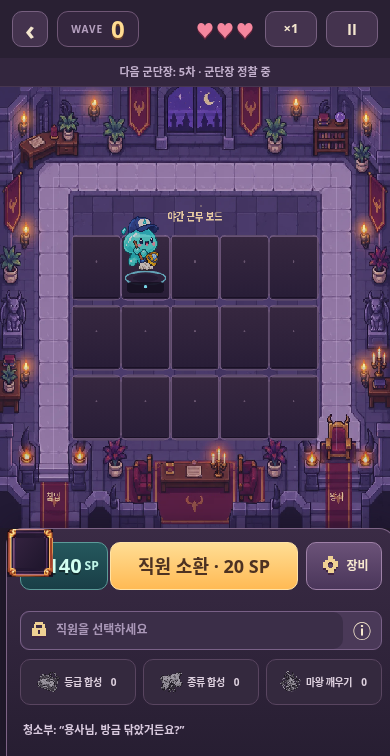
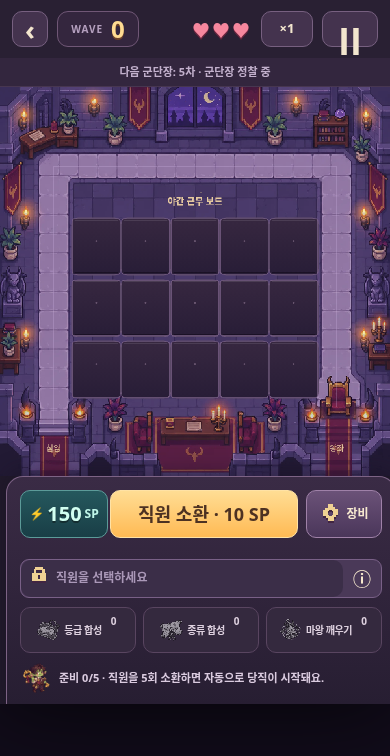
Constrain live pause glyph and refresh final visual evidence

diff --git a/approved-ui.css b/approved-ui.css
@@ -124,3 +124,7 @@
 @layer enamel {
 #app-shell #battle .battle-notice::before{position:static!important;inset:auto!important;transform:none!important;margin:0!important;padding:0!important;border:0!important;border-image:none!important;box-shadow:none!important;opacity:1!important;filter:none!important;z-index:auto!important}
 }
+@layer enamel {
+#app-shell #battle #pause{font-size:18px!important;line-height:20px!important;display:grid!important;place-items:center!important;width:42px!important;min-width:42px!important;overflow:hidden!important}
+#app-shell #battle .battle-controls{min-height:0!important;height:auto!important;grid-template:none!important;align-content:initial!important}
+}
